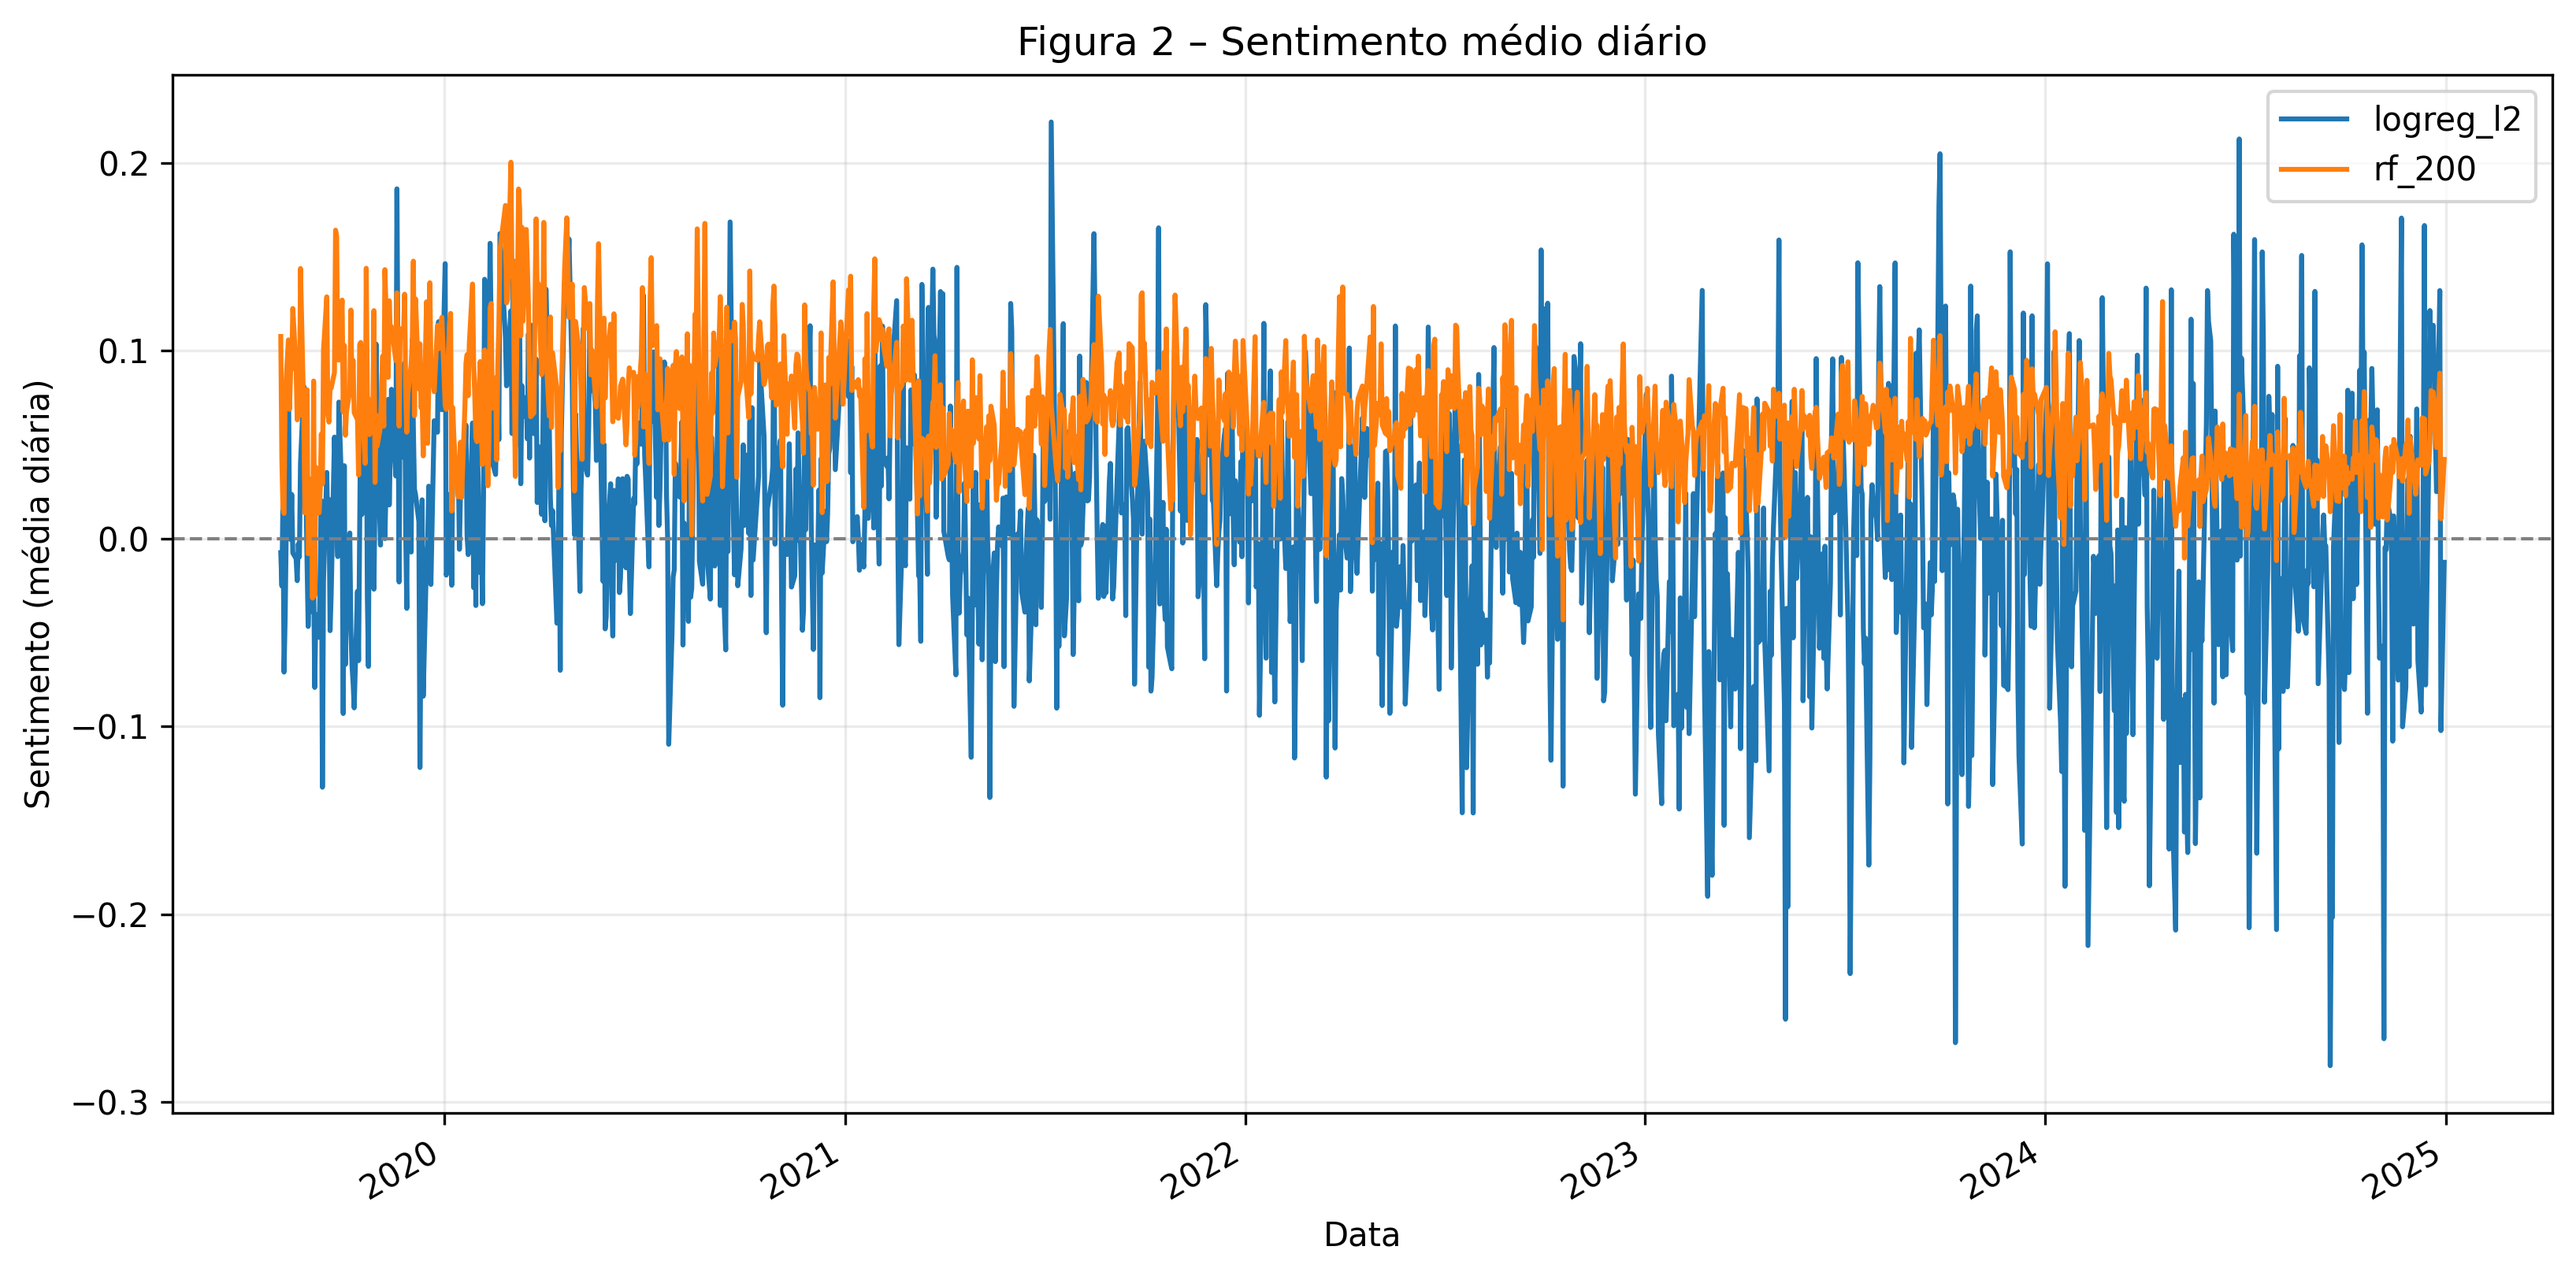
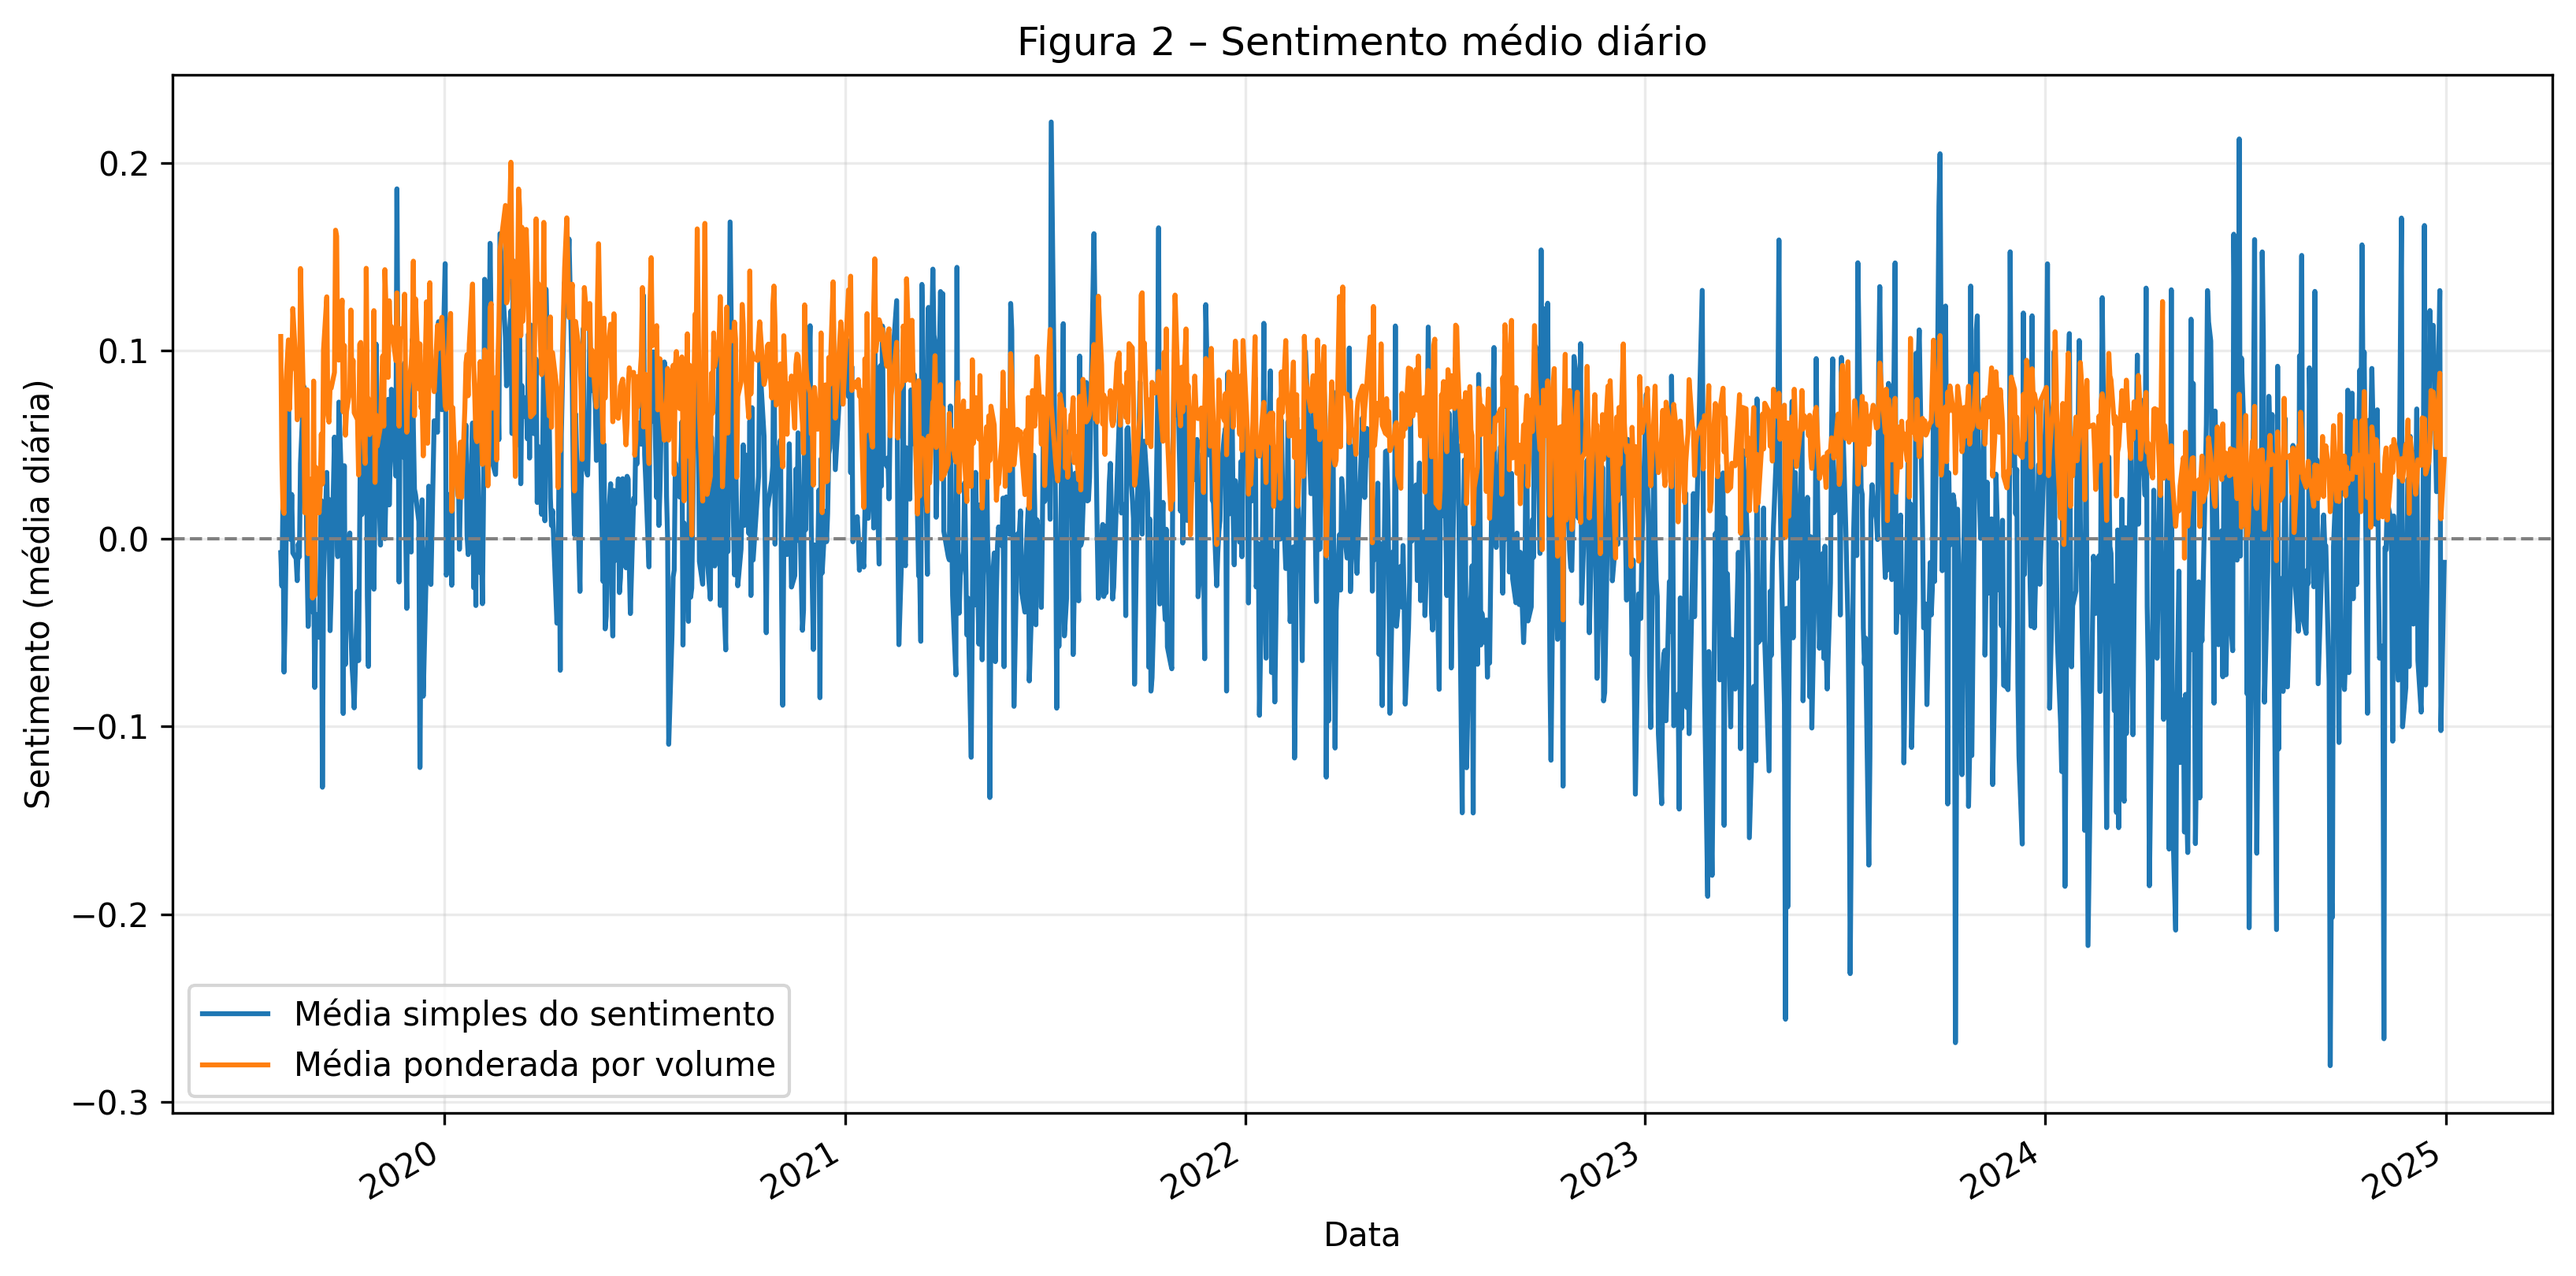
feat(labels): atualiza rótulos de legenda para nomes descritivos (v1.1)
- Substitui 'logreg_l2' por 'Média simples do sentimento' e 'rf_200'
  por 'Média ponderada por volume' nas legendas das Figuras 2, 4 e 8
- Adiciona MODEL_DISPLAY_NAMES em export_tcc_figures.py e app_dashboard.py
  para mapeamento centralizado sem renomear colunas ou variáveis internas
- Regenera 11 figuras base (long_only_60) com os novos rótulos
- Atualiza README: badge de versão, descrição dos modelos no dropdown
  e nota de versão v1.1 na seção de validação

Changed region(s): [[0.0624, 0.7716, 0.3119, 0.8642], [0.8734, 0.0617, 0.9982, 0.1543]]

diff --git a/scripts/export_tcc_figures.py b/scripts/export_tcc_figures.py
@@ -26,6 +26,10 @@ FORCE_OVERWRITE = True
 OFFICIAL_START = pd.Timestamp("2018-01-02")
 OFFICIAL_END = pd.Timestamp("2024-12-31")
 ANCHOR_MODELS = ["logreg_l2", "rf_200"]
+MODEL_DISPLAY_NAMES = {
+    "logreg_l2": "Média simples do sentimento",
+    "rf_200": "Média ponderada por volume",
+}
 # ordem de preferência; caímos para a próxima se a curva diária ficar peça (nunique<=200)
 STRATEGIES_CFG = [
     {"name": "long_only_60", "long_th": 0.60, "short_th": 0.40, "allow_short": False, "cost": 0.0005},
@@ -295,7 +299,7 @@ def figure_ibov_events(ibov: pd.DataFrame, events: pd.DataFrame) -> None:
 def figure_sentiment_daily(sent_daily: pd.DataFrame) -> None:
     fig, ax = plt.subplots(figsize=(11, 5.5), dpi=300)
     for model, dfm in sent_daily.groupby("model"):
-        ax.plot(dfm["day"], dfm["sentiment"], label=model)
+        ax.plot(dfm["day"], dfm["sentiment"], label=MODEL_DISPLAY_NAMES.get(model, model))
     ax.axhline(0, color="gray", linestyle="--", linewidth=1)
     ax.set_title("Figura 2 – Sentimento médio diário")
     ax.set_xlabel("Data")
@@ -314,7 +318,7 @@ def figure_scatter(sent_daily: pd.DataFrame, ibov: pd.DataFrame, model: str = "l
     fig, ax = plt.subplots(figsize=(9, 5), dpi=300)
     ax.scatter(merged["sent"], merged["ret"], alpha=0.35, edgecolor="k", s=24)
     ax.set_title(f"Figura 4 – Dispersão Sentimento × Retorno (r={corr:.2f})")
-    ax.set_xlabel(f"Sentimento ({model})")
+    ax.set_xlabel(f"Sentimento ({MODEL_DISPLAY_NAMES.get(model, model)})")
     ax.set_ylabel("Retorno diário do Ibovespa")
     ax.grid(alpha=0.25)
     fig.tight_layout()
@@ -435,8 +439,8 @@ def figure_backtest_vs_benchmark(oof: pd.DataFrame, ibov: pd.DataFrame, strategy
     equity_df, stats, strategy = compute_backtest_mark_to_market(oof, ibov, strategy_name)
     equity_df.to_csv(OUTPUT_DIR / "Figura_8_backtest_vs_benchmark.csv", index=False)
     fig, ax = plt.subplots(figsize=(11, 5.5), dpi=300)
-    ax.plot(equity_df["date"], equity_df["equity_logreg_l2"], label=f"logreg_l2 ({strategy})")
-    ax.plot(equity_df["date"], equity_df["equity_rf_200"], label=f"rf_200 ({strategy})")
+    ax.plot(equity_df["date"], equity_df["equity_logreg_l2"], label=f"Média simples do sentimento ({strategy})")
+    ax.plot(equity_df["date"], equity_df["equity_rf_200"], label=f"Média ponderada por volume ({strategy})")
     ax.plot(equity_df["date"], equity_df["equity_ibov"], label="Ibov buy&hold", color="black", linestyle="--")
     ax.set_title("Figura 8 – Curva de backtest vs benchmark (normalizadas em 1.0)")
     ax.set_ylabel("Equity normalizado")

diff --git a/app_dashboard.py b/app_dashboard.py
@@ -45,6 +45,10 @@ LATENCY_PATH = cfg.get_arquivo("latency_events", BASE_PATH)
 PREFERRED_STRATEGY = "long_only_60"
 FALLBACK_STRATEGY = "long_only_55"
 COMPARE_MODELS_ANCHOR = ["logreg_l2", "rf_200"]
+MODEL_DISPLAY_NAMES = {
+    "logreg_l2": "Média simples do sentimento",
+    "rf_200": "Média ponderada por volume",
+}
 
 PLOTLY_CONFIG = dict(
     displayModeBar=True,
@@ -1009,7 +1013,7 @@ def update_dashboard(start_date, end_date, selected_model, metric, export_toggle
                         x=grp["day"],
                         y=grp["equity"],
                         mode="lines",
-                        name=f"{model} | {strategy}",
+                        name=f"{MODEL_DISPLAY_NAMES.get(model, model)} | {strategy}",
                     )
                 )
         if backtest_fig.data:

diff --git a/README.md b/README.md
@@ -2,7 +2,7 @@
 
 ![Python](https://img.shields.io/badge/Python-3.x-blue)
 ![Dash](https://img.shields.io/badge/Dash-Plotly-informational)
-![Status](https://img.shields.io/badge/Status-Validado%20%7C%20v1.0--dashboard-success)
+![Status](https://img.shields.io/badge/Status-Validado%20%7C%20v1.1--legend--labels-success)
 
 ## Identificação acadêmica (USP)
 - **Autor:** Anderson Pantoja Machado
@@ -120,7 +120,7 @@ cd C:\TCC_USP\tcc-usp-ibovespa-sentimento
 
 ## Como usar o dashboard
 - **Período de Análise:** filtra todos os 8 gráficos (clamp dentro do hard cap).
-- **Modelo:** dropdown (ex.: `logreg_l2`, `rf_200`); afeta comparativo, backtest e KPIs.
+- **Modelo:** dropdown (identificadores: `logreg_l2` = *Média simples do sentimento*, `rf_200` = *Média ponderada por volume*); afeta comparativo, backtest e KPIs. As legendas dos gráficos exibem os nomes descritivos.
 - **Métrica:** `AUC`, `MDA`, `Sharpe` (comparativo e KPIs).
   - AUC: discriminação (ROC) do classificador.
   - MDA: acerto direcional médio (↑/↓).
@@ -174,6 +174,7 @@ Relatórios em `reports/`:
 - `dashboard_blueprint.md` e `dashboard_graph_index.json` — mapa do layout/figuras.
 
 Versão estável: tag **v1.0-dashboard** (commit core: `cbee9db`).
+Versão atual: **v1.1** — legendas das Figuras 2, 4 e 8 atualizadas para nomes descritivos (`Média simples do sentimento` / `Média ponderada por volume`).
 
 ---
 
